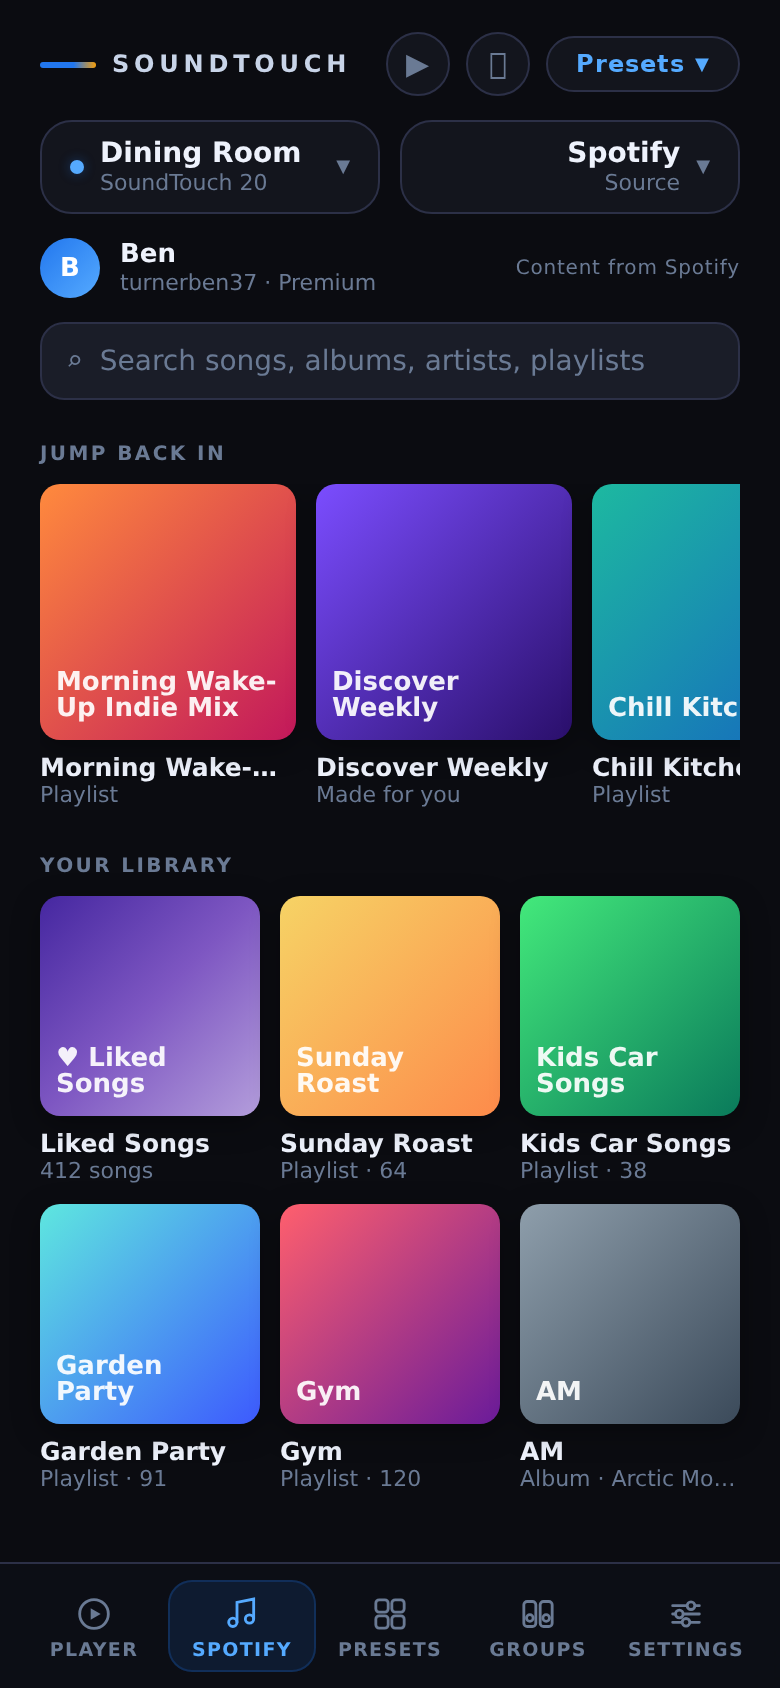
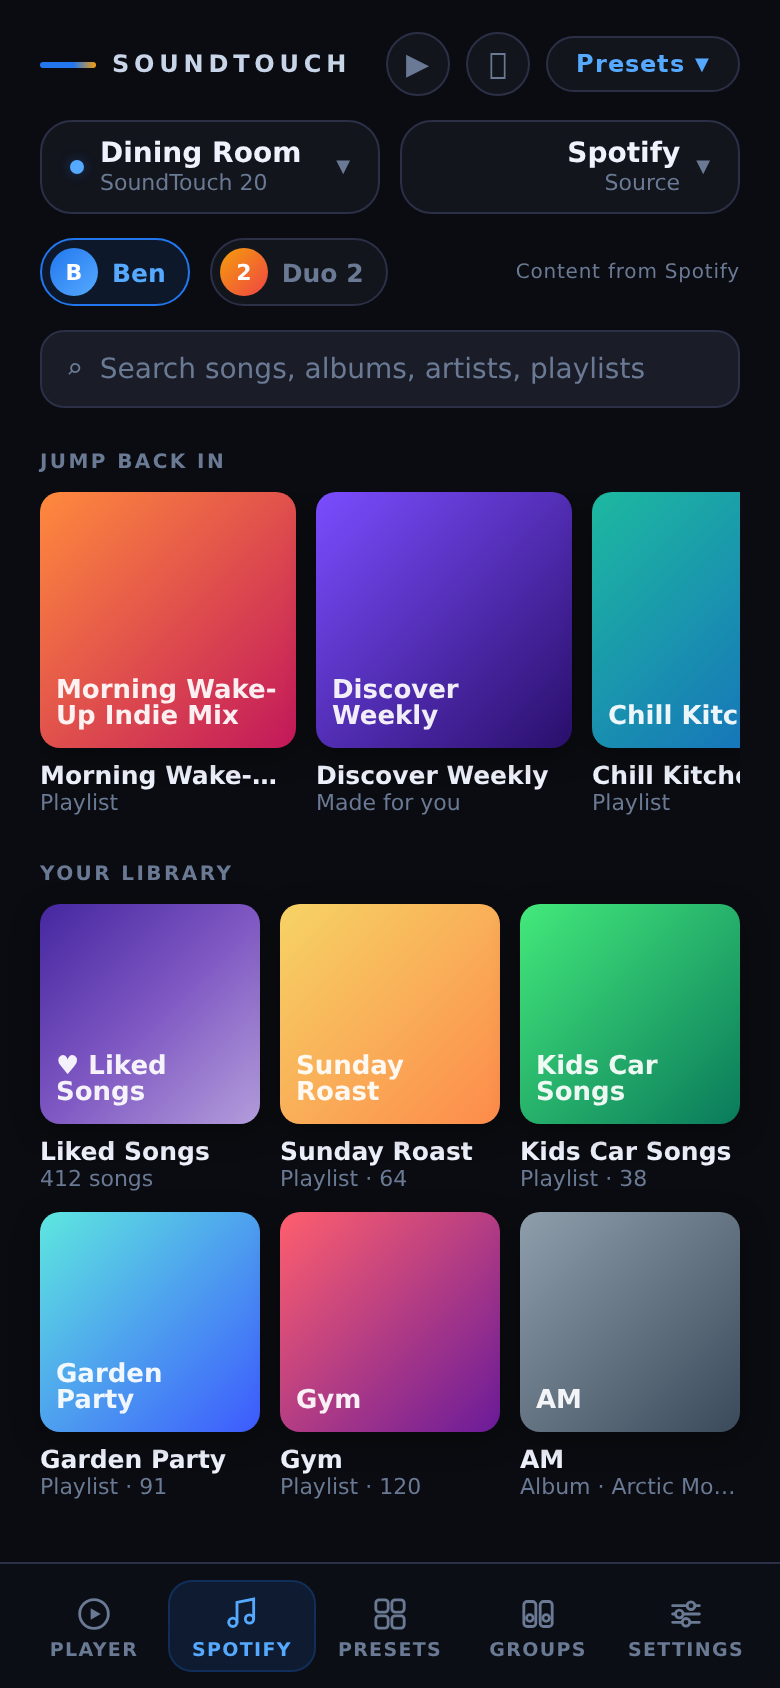
docs(spotify-browser): both Duo accounts, 5th tab, why a dev app is needed
- Two-account design: per-account linking and a switcher; playback as the
  second account needs the speaker switched to it via ZeroConf addUser,
  added as spike 5 (decides the design) with a public-only fallback
- Setup section explaining why a Spotify developer app (Client ID) is
  required and the steps, including allow-listing the second account
- Endpoints and token store made per-account; scopes include streaming
  if account switching proves out
- Mockups: account switcher on the home screen, both accounts in Settings

diff --git a/docs/plans/spotify-browser/mockup.html b/docs/plans/spotify-browser/mockup.html
@@ -17,6 +17,15 @@
   .sp-acct .who{font-size:13px;font-weight:600;color:var(--white)}
   .sp-acct .who small{display:block;font-size:11px;font-weight:400;color:var(--fg2)}
   .sp-acct .powered{margin-left:auto;font-size:10px;color:var(--fg2);letter-spacing:.04em}
+  .acct-pill{display:flex;align-items:center;gap:7px;padding:4px 11px 4px 4px;border-radius:20px;
+    border:1px solid var(--border);background:var(--surface);font-size:12.5px;font-weight:600;color:var(--fg2)}
+  .acct-pill.on{border-color:var(--blue);background:rgba(34,119,238,.12);color:var(--blue-light)}
+  .acct-pill .sp-avatar{width:24px;height:24px;font-size:11px}
+  .sp-avatar.b2{background:linear-gradient(135deg,#f59e0b,#ef4444)}
+  .acct-row{display:flex;align-items:center;gap:10px;padding:10px 0;border-bottom:1px solid rgba(44,48,71,.6)}
+  .acct-row .who{flex:1;font-size:13px;font-weight:600;color:var(--white)}
+  .acct-row .who small{display:block;font-size:11px;font-weight:400;color:var(--fg2)}
+  .ok{font-size:11px;color:#22c55e;font-weight:700}
   .sp-search{display:flex;align-items:center;gap:8px;background:var(--surface2);border:1px solid var(--border);
     border-radius:12px;padding:10px 12px;color:var(--fg2);font-size:14px;margin-bottom:16px}
   .sp-search.active{border-color:var(--blue);color:var(--white)}
@@ -116,8 +125,10 @@
 
   <!-- ── 1. Home ─────────────────────────────────────────────── -->
   <div class="screen sp-page" id="s-home">
-    <div class="sp-acct"><div class="sp-avatar">B</div>
-      <div class="who">Ben<small>turnerben37 · Premium</small></div><div class="powered">Content from Spotify</div></div>
+    <div class="sp-acct">
+      <div class="acct-pill on"><div class="sp-avatar">B</div>Ben</div>
+      <div class="acct-pill"><div class="sp-avatar b2">2</div>Duo 2</div>
+      <div class="powered">Content from Spotify</div></div>
     <div class="sp-search">⌕&nbsp; Search songs, albums, artists, playlists</div>
     <div class="sp-h">Jump back in</div>
     <div class="sp-row">
@@ -171,16 +182,18 @@
     <div class="qr-section" style="margin-top:0">
       <div class="qr-collapse-hdr"><span class="title">Spotify</span><span class="qr-chevron">▲</span></div>
       <div class="qr-body" style="display:block">
-        <p style="font-size:12px;color:var(--fg2);margin-bottom:6px;line-height:1.5">
-          Link the Spotify account your speakers use (turnerben37) to browse it here. One-off, takes a minute.</p>
+        <p style="font-size:12px;color:var(--fg2);margin-bottom:4px;line-height:1.5">
+          Link both Duo accounts to browse and play either of them. One-off per account.</p>
+        <div class="acct-row"><div class="sp-avatar">B</div><div class="who">Ben<small>turnerben37 · speakers' account</small></div><div class="ok">✓ Linked</div></div>
+        <div class="acct-row" style="margin-bottom:6px"><div class="sp-avatar b2">2</div><div class="who">Duo 2<small>Not linked yet</small></div><div class="mc-btn primary" style="font-size:12px">Link</div></div>
         <div class="step"><div class="num done">✓</div><div><b>Open Spotify login</b>
           <p>Approve read-only access: your playlists, library and recently played.</p></div></div>
         <div class="step"><div class="num">2</div><div><b>Paste the address you land on</b>
           <p>Spotify sends your phone to a page that won't load (127.0.0.1). That's expected — copy the whole address from the address bar and paste it here.</p>
           <div class="paste">http://127.0.0.1:8888/api/spotify/callback?code=AQB3x…&amp;state=f81c…</div></div></div>
         <div class="step"><div class="num">3</div><div><b>Done</b><p>The controller keeps the login and renews it itself.</p></div></div>
-        <div class="btn-play" style="margin-top:6px">Link account</div>
-        <div class="note">Anyone who can open this app on your network can browse this Spotify account (read-only — it can't change playlists or see payment details).</div>
+        <div class="btn-play" style="margin-top:6px">Link Duo 2</div>
+        <div class="note">Anyone who can open this app on your network can browse and play from linked accounts. It can't change playlists or see payment details.</div>
       </div>
     </div>
   </div>
@@ -192,7 +205,7 @@
   <div class="sheet">
     <div class="grab"></div>
     <h3>Play “Morning Wake-Up Indie Mix”</h3>
-    <div class="sub">Pick one speaker, or several to play in sync</div>
+    <div class="sub">Playing as <b style="color:var(--white)">Ben</b> · pick one speaker, or several to play in sync</div>
     <div class="spk on"><div class="box">✓</div><div class="nm">Dining Room</div><div class="md">ST 20</div></div>
     <div class="spk on"><div class="box">✓</div><div class="nm">Kitchen</div><div class="md">ST 10</div></div>
     <div class="spk"><div class="box"></div><div class="nm">Bedroom</div><div class="md">ST 20</div></div>

diff --git a/docs/plans/spotify-browser.md b/docs/plans/spotify-browser.md
@@ -1,6 +1,8 @@
 # Plan: Spotify browser in the web app
 
-**Status:** proposal, nothing built yet · **Branch:** `feature/spotify-browser` · **Supersedes the approach in** #72, and cuts #70 down to one account
+**Status:** proposal, nothing built yet · **Branch:** `feature/spotify-browser` · **Supersedes the approach in** #72 · builds on #70/#71 for the second Duo account
+
+**Decided (10 Oct):** Spotify is a **5th tab**. It must work with **both Duo accounts**. A personal Spotify developer app is needed; the reasons are in *Setup* below.
 
 ## Recommendation
 
@@ -30,13 +32,31 @@ So playback is solved. What's left is the **browsing**: search, your playlists a
 - **Play:** the same local ContentItem format as presets. For example, `spotify:playlist:0NF0Mryk…` is base64-encoded into `/playback/container/…`, with `sourceAccount="turnerben37"`.
 - **Speakers:** only speakers with that account linked and `READY` get Spotify as an option. That's every speaker except the Living Room soundbar, which has no account linked. The same rule (`preset_target_ok()`) already drives "Save what's playing → All speakers".
 
+## Two Duo accounts
+
+Browsing is easy: each account links separately, and a switcher at the top of the tab picks whose library you see (screen 1).
+
+**Playing is the hard part.** A speaker plays Spotify as **whichever account is logged into it**, and all six are logged in as `turnerben37`. So for the second account:
+
+| Second account plays… | Through Ben's account on the speaker | After switching the speaker to the second account |
+|---|---|---|
+| Public playlists, albums, artists, songs | ✅ works | ✅ works |
+| Its own **private playlists** and **Liked Songs** | ❌ Ben's account can't see them | ✅ works |
+| Its own listening history / recommendations | counts as Ben's | ✅ its own |
+
+To do this properly, the controller has to **switch the speaker's logged-in account** before playing, and switch back when Ben plays. The speakers support this in principle via the Spotify Connect ZeroConf endpoint on port 8200. That's the hand-off the phone app does when you pick a speaker. It takes a short-lived access token (`tokenType: accesstoken`) via `addUser`, which needs the extra `streaming` scope on that account's login. #71 got as far as reading `getInfo` but never tested `addUser` on these speakers.
+
+**So spike 5 (below) decides the design:**
+- **If it works:** playing as either account switches the speaker as needed. The speaker sheet shows "Playing as …", and the Player tab shows whose account is on each speaker.
+- **If it doesn't:** the second account still gets full browsing and plays anything public. Its private playlists show a "Make this playlist public to play it on the speakers" hint. Still useful, just not complete.
+
 ## Spotify's rules that shape the design
 
 | Rule (checked October 2026) | What it means here |
 |---|---|
 | Redirect URIs must be HTTPS, except the loopback IPs `http://127.0.0.1` / `[::1]`. `localhost` and LAN IPs are not allowed (enforced for new apps from April 2025). | The controller's `http://10.10.10.111:8888` can't be the redirect. So the one-off login is a **paste-back**: Spotify redirects the phone to `http://127.0.0.1:8888/…`, the page fails to load (expected), and you paste that address into the app. See screen 5. |
 | Since November 2024, new apps can't read **Spotify-owned / algorithmic playlists** (Discover Weekly, Daily Mix, editorial), recommendations or featured/category playlists. | These can't be browsed or searched into, but they can still be **played**. The speaker doesn't use the Web API, as the Discover Weekly preset already shows. They also still work through "Save what's playing". |
-| Development-mode apps are limited to a small allow-list of named users. | Fine: it's one household and one account. Register a personal app in the Spotify Developer Dashboard. |
+| Development-mode apps are limited to a small allow-list of named users. | Fine for one household. Both Duo accounts' emails go on the allow-list (see *Setup*). |
 | Brand guidelines. | Show "Content from Spotify", don't crop or alter artwork, and don't use the Spotify logo as our icon. The mockups use a generic music-note tab icon. |
 
 ## Screens
@@ -53,22 +73,36 @@ All mockups are at phone width, in the app's real styling (`docs/plans/spotify-b
 | ![Speakers](spotify-browser/4-speaker-sheet.png) | ![Link](spotify-browser/5-link-account.png) |
 | Pick one speaker, or several to play in sync (creates a group via the existing zone API, then plays on the master). Speakers that can't play it are greyed out with the reason. | One-off setup with the paste-back flow, explained in plain terms, plus an up-front note that anyone on the LAN can browse the account read-only. |
 
+## Setup: why a Spotify developer app is needed
+
+Spotify's Web API only answers programs that identify themselves with an app **Client ID**, even for a plain search, logged in or not. There's no anonymous access, and the speakers' own Spotify integration can't be borrowed for browsing.
+
+- **Who:** it has to be Ben. An app is created under a Spotify login, and a development-mode app only works for accounts its owner adds to its allow-list, which here means the second Duo account.
+- **Cost:** free, no review, about 5 minutes.
+- **Steps:**
+  1. Log in at developer.spotify.com and create an app (Web API).
+  2. Add the redirect URI `http://127.0.0.1:8888/api/spotify/callback`.
+  3. Under *User Management*, add the second Duo account's email.
+  4. Copy the **Client ID** into the controller (Settings → Spotify). With PKCE there's no client secret.
+- **Alternatives considered:** using another app's Client ID breaks Spotify's terms and can be blocked at any time. Not building the browser leaves the Spotify phone app plus "Save what's playing", which already covers most of the need.
+
 ## Backend
 
 New `SpotifyClient` class and `/api/spotify/*` endpoints (GET, matching the existing API style):
 
 | Endpoint | Does |
 |---|---|
-| `/api/spotify/status` | linked? display name, product (Premium), which speakers can play |
-| `/api/spotify/login` | returns the authorise URL (PKCE `code_challenge`, `state`) |
-| `/api/spotify/link?url=` | takes the pasted callback URL, checks `state`, exchanges the code, stores the tokens |
-| `/api/spotify/unlink` | forgets the tokens |
-| `/api/spotify/home` | recently played contexts, playlists, saved albums, Liked Songs count (cached ~60 s) |
-| `/api/spotify/search?q=&type=` | `/v1/search` |
-| `/api/spotify/item?uri=` | playlist / album / artist detail and tracks |
-| `/api/spotify/play?uri=&hosts=` | builds the ContentItem and `/select`s it. With several hosts it makes a zone first |
+| `/api/spotify/accounts` | linked accounts (name, user id, Premium?), never tokens |
+| `/api/spotify/login?account=new` | returns the authorise URL (PKCE `code_challenge`, `state`) |
+| `/api/spotify/link?url=` | takes the pasted callback URL, checks `state`, exchanges the code, resolves the user via `/v1/me`, stores the tokens |
+| `/api/spotify/unlink?account=` | forgets that account |
+| `/api/spotify/home?account=` | recently played contexts, playlists, saved albums, Liked Songs count (cached ~60 s) |
+| `/api/spotify/search?q=&type=&account=` | `/v1/search` |
+| `/api/spotify/item?uri=&account=` | playlist / album / artist detail and tracks |
+| `/api/spotify/play?uri=&hosts=&account=` | switches each speaker to `account` if needed (spike 5), builds the ContentItem, `/select`s it. With several hosts it makes a zone first |
 
-- **Tokens:** stored in `data/spotify/account.json` with mode `0600`, refreshed automatically about 60 s before expiry, and never logged or sent to the browser. `data/` is already gitignored.
+- **Tokens:** one file per account, `data/spotify/<user_id>.json`, with mode `0600`. That's #70's `SpotifyAccountStore`, minus the client secret thanks to PKCE. Refreshed automatically about 60 s before expiry, never logged or sent to the browser. `data/` is already gitignored.
+- **Scopes:** read-only browsing (`playlist-read-private`, `user-library-read`, `user-read-recently-played`, `user-read-private`), plus `streaming` if spike 5 passes, to hand the speaker a login.
 - **Client ID:** from `$SPOTIFY_CLIENT_ID` or `data/spotify/app.json`. It isn't secret with PKCE, but it's kept out of the repo anyway.
 - **Rate limits:** honour `429 Retry-After`, and cache responses briefly so scrolling doesn't hammer the API.
 - **Front end:** a separate `web/spotify.js` module rather than growing `app.js`, which is already ~1,800 lines.
@@ -81,6 +115,7 @@ New `SpotifyClient` class and `/api/spotify/*` endpoints (GET, matching the exis
 2. **Starting at a track:** can playback start at a chosen track? Probably not via `/select`. The fallback is Web API `PUT /me/player/play` with `offset`. The speaker is already in `turnerben37`'s Connect device list, but this needs the extra `user-modify-playback-state` scope.
 3. **Login flow:** does the paste-back flow work on iPhone, and how long do refresh tokens last for a dev-mode app?
 4. **Spotify-made playlists:** does `/v1/me/playlists` still *list* Spotify-made playlists you follow, with name, art and URI, even though their tracks are blocked? If so, Discover Weekly can still appear as a tile.
+5. **Account switching (decides the two-account design):** can the controller log a speaker into the second Duo account via ZeroConf `addUser` (port 8200, access token with `streaming`)? Then: does `/sources` show that account `READY`, does `/select` with its `sourceAccount` play one of its private playlists, and can we switch back to `turnerben37` cleanly? Test on one ST10 first. If it fails, the fallback is described under *Two Duo accounts*.
 
 **Phase 1: backend.** `SpotifyClient`, the token store, the endpoints above, and unit tests with mocked Web API responses. Done when `/api/spotify/home` returns real data and `/api/spotify/play` starts a playlist on an ST20.
 
@@ -98,10 +133,11 @@ New `SpotifyClient` class and `/api/spotify/*` endpoints (GET, matching the exis
 - **Spotify could end the speakers' built-in support** (it's a Bose integration, and Bose has exited). It works today. If it stopped, presets would break too, so the browser adds no new exposure.
 - **Spotify Web API policy keeps tightening.** We use only plain read-only library and search endpoints, which have been stable.
 - **The controller has no login.** Anyone on the Wi-Fi could browse the linked account, but only read-only: the scopes can't modify playlists or see billing. Spike 2 would add `user-modify-playback-state`, and that's the point to revisit this.
-- **Second Duo account:** private playlists belonging to the *other* Duo member won't play, because the speakers play as `turnerben37`. This is out of scope here. #70/#71's multi-account and ZeroConf work would be the route if it's ever wanted.
+- **Account switching (spike 5) is unproven on Bose.** If it fails, the second account loses only its private playlists and Liked Songs. If it works but is slow, switching may add a few seconds before playback.
+- **Switching fights:** if one person casts from the Spotify phone app while the controller switches that speaker to the other account, the last one wins. The Player tab should show whose account is on each speaker, so it isn't a mystery.
 
-## Open questions for Ben
+## Decisions
 
-1. Should Spotify be a 5th tab, as mocked, or open from the **Source ▾** picker when you choose Spotify?
-2. Is single-account (yours, the one the speakers use) enough? It keeps things simple.
-3. Is it OK to create a personal Spotify developer app? It takes about 5 minutes in the dashboard, and only you can do it because it's tied to your Spotify login.
+1. ~~Tab or Source picker?~~ **5th tab.**
+2. ~~One account or both?~~ **Both Duo accounts.** The design depends on spike 5.
+3. ~~Developer app?~~ **Needed.** See *Setup*. Ben creates it when Phase 0 starts, adding the second account's email.
